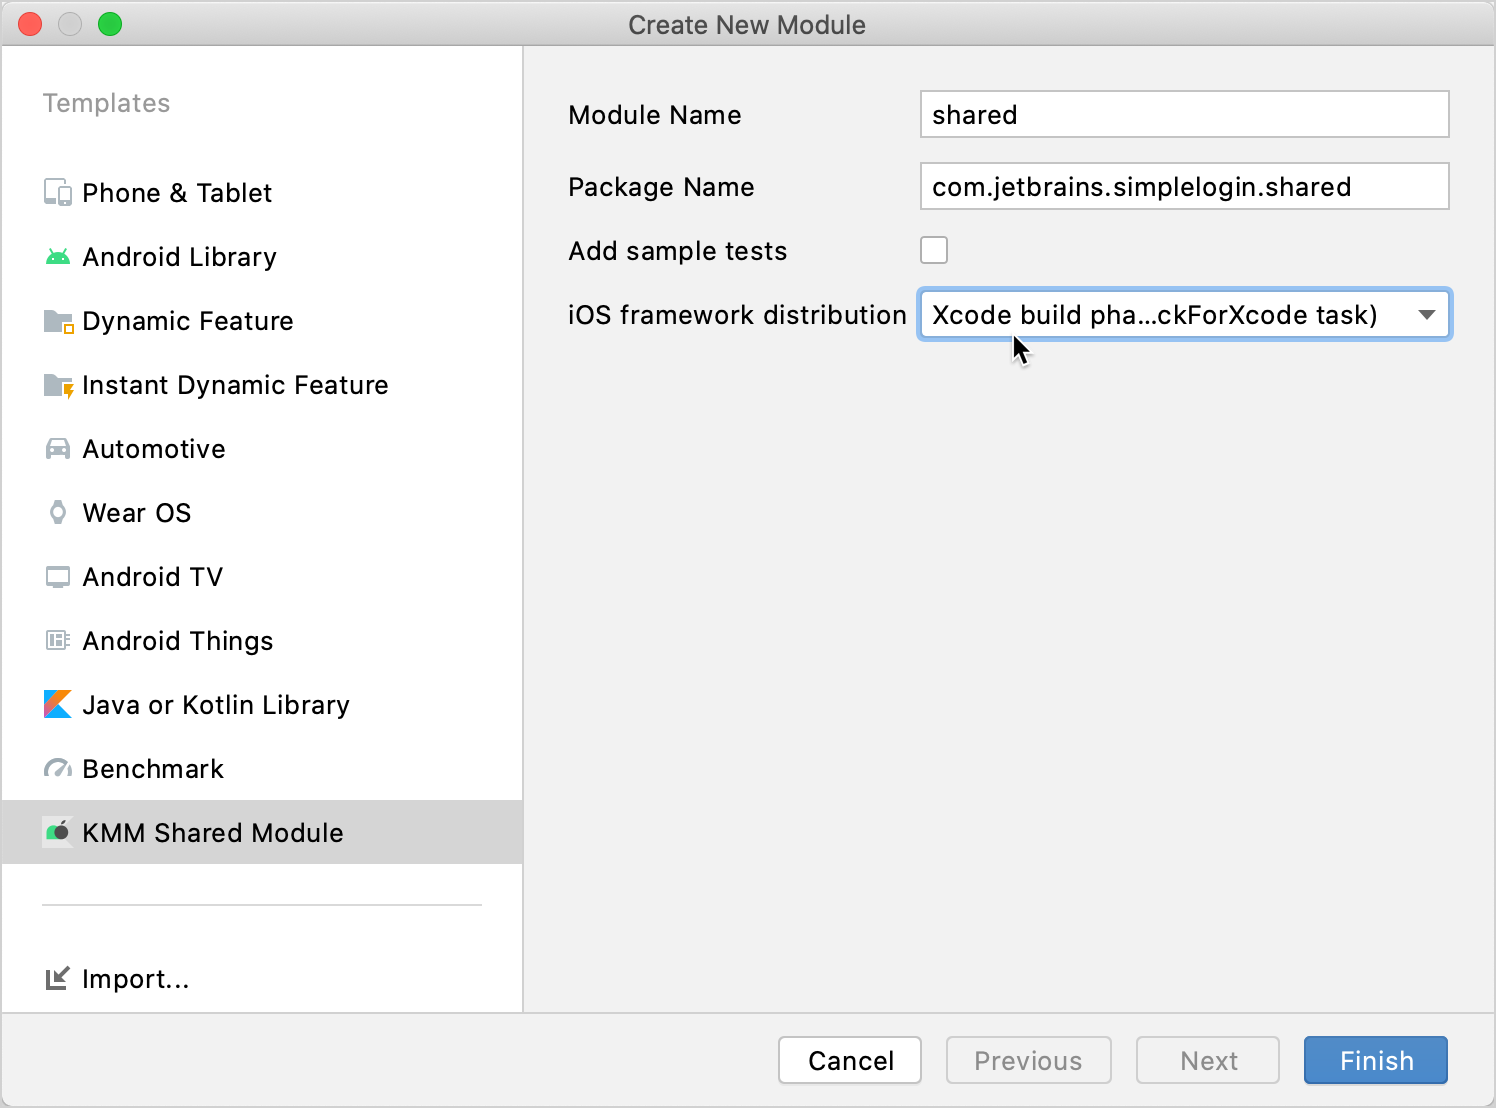
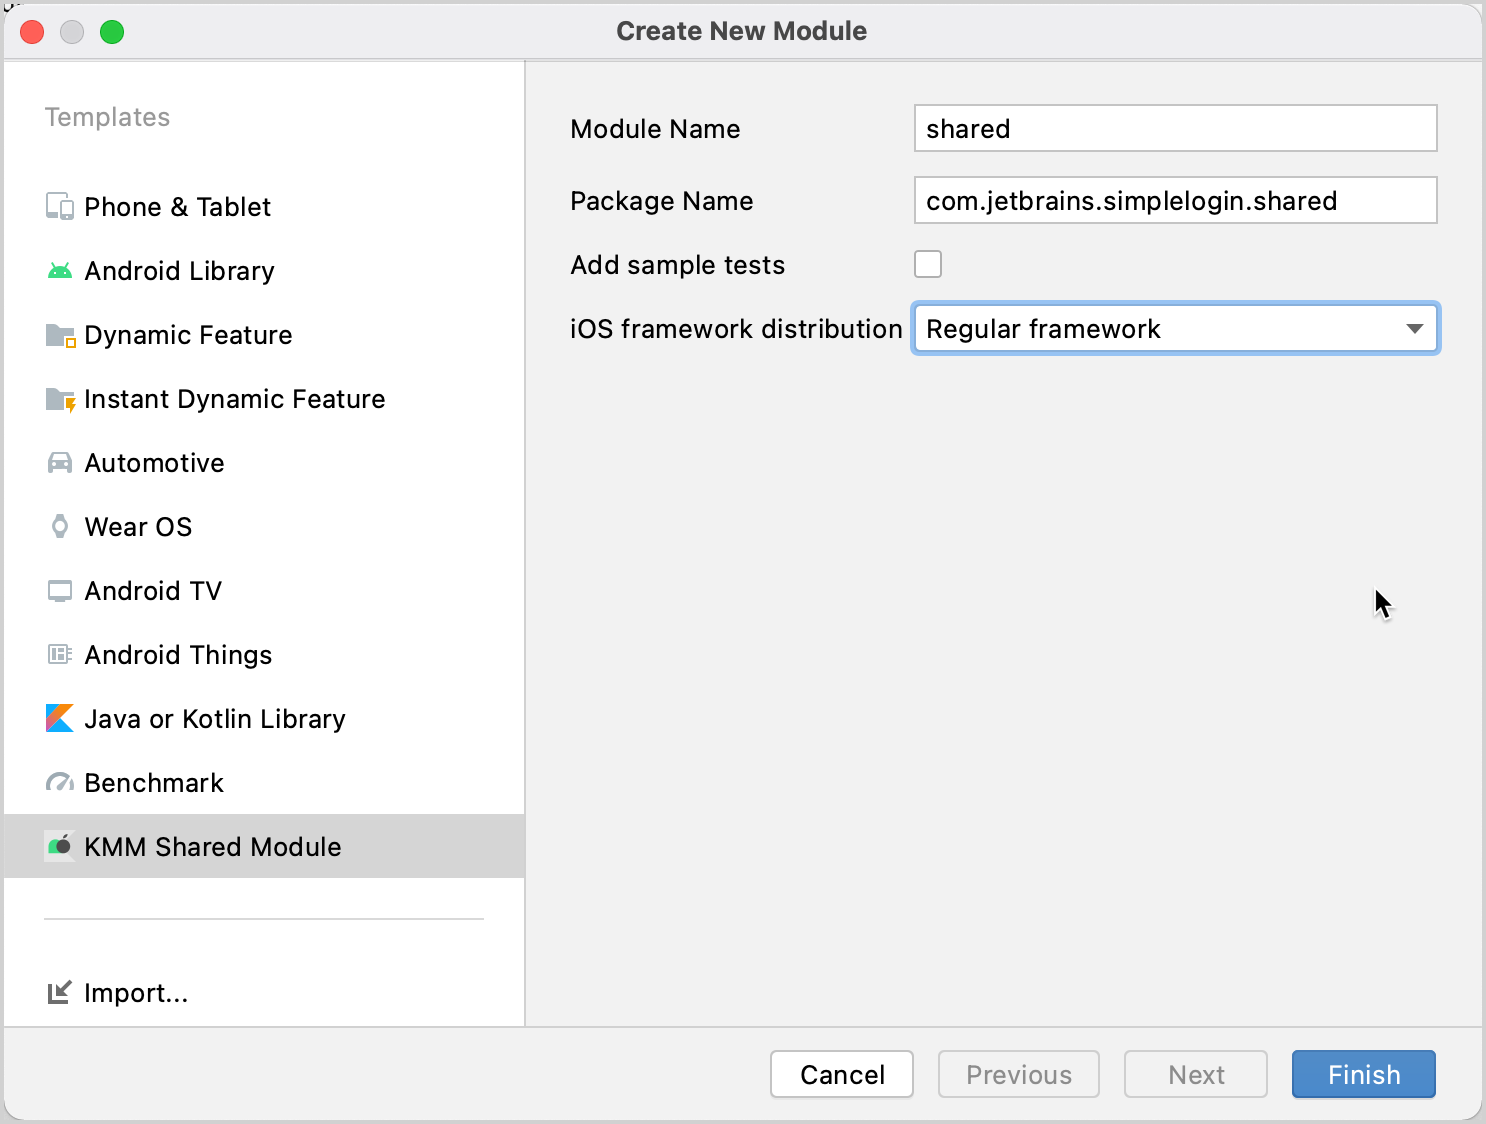
update: update the KMM project structure and tutorial (#104)
* update: update the discover-kmm-project.md and v.list

* update: update the discover-kmm-project.md and v.list

* update: update screenshots and integration instructions

* fix: fix the minitoc

* update: update after review

* update: update the discover-kmm-project.md

* update: update pics

* update: update the structure

* update: update the pic

* update: update the wording

diff --git a/topics/discover-kmm-project.md b/topics/discover-kmm-project.md
@@ -4,16 +4,16 @@
 The purpose of the Kotlin Multiplatform Mobile (_KMM_) technology is unifying the development of applications with common 
 logic for Android and iOS platforms. To make this possible, KMM uses a mobile-specific structure of
 [Kotlin Multiplatform](https://kotlinlang.org/docs/multiplatform.html) projects.
-On this page, we’ll describe the structure of a basic KMM project. Note that this structure isn’t the only
+This page describes the structure of a basic KMM project. Note that this structure isn’t the only
 possible way to organize a KMM project; however, we recommend it as a starting point.
 
 A basic Kotlin Mobile Multiplatform (KMM) project consists of three components:
 
-* _Shared module_ - a Kotlin module that contains common logic for both Android and iOS applications.
+* _Shared module_ – a Kotlin module that contains common logic for both Android and iOS applications.
 Builds into an Android library and an iOS framework. Uses Gradle as a build system.
-* _Android application_ - a Kotlin module that builds into the Android application.
+* _Android application_ – a Kotlin module that builds into the Android application.
 Uses Gradle as a build system.
-* _iOS application_ - an Xcode project that builds into the iOS application.
+* _iOS application_ – an Xcode project that builds into the iOS application.
 
 ![Basic KMM project structure](basic-project-structure.png){width=700}
 
@@ -50,14 +50,14 @@ include(":androidApp")
 
 The iOS application is produced from an Xcode project. It’s stored in a separate directory within the root project.
 Xcode uses its own build system; thus, the iOS application project isn’t connected with other parts of the KMM project
-via Gradle. Instead, it uses the shared module as an external artifact - framework. For details on integration between
+via Gradle. Instead, it uses the shared module as an external artifact – framework. For details on integration between
 the shared module and the iOS application, see [iOS application](#ios-application).
 
 This is a basic structure of a KMM project:
 
 ![Basic KMM project directories](basic-project-dirs.png){width=400}
 
-The root project doesn’t hold source code. You can use it to store global configuration in its `build.gradle(.kts)` or 
+The root project does not hold source code. You can use it to store global configuration in its `build.gradle(.kts)` or 
 `gradle.properties`, for example, add repositories or define global configuration variables.
 
 For more complex projects, you can add more modules into the root project by creating them in the IDE and linking via
@@ -258,7 +258,7 @@ plugins {
 </tab>
 </tabs>
 
-The configuration of Android library is stored in the `android {}` top-level block of the shared module’s build script.
+The configuration of Android library is stored in the `android {}` top-level block of the shared module’s build script:
 
 <tabs>
 <tab title="Groovy">
@@ -308,7 +308,7 @@ To learn more, see the [Android developer documentation](https://developer.andro
 
 ### iOS framework
 
-For using in iOS applications, the shared module compiles into a framework - a kind of hierarchical directory
+For using in iOS applications, the shared module compiles into a framework – a kind of hierarchical directory
 with shared resources used on the Apple platforms.
 This framework connects to the Xcode project that builds into an iOS application.
 
@@ -354,68 +354,12 @@ kotlin {
 </tab>
 </tabs>
 
-Additionally, there is a Gradle task that exposes the framework to the Xcode project from which the iOS application is built.
+Additionally, there is a Gradle task `embedAndSignAppleFrameworkForXcode` that exposes the framework to the Xcode project from which the iOS application is built.
 It uses the configuration of the iOS application project to define the build mode (`debug` or `release`) and provide
 the appropriate framework version to the specified location.
 
-<tabs>
-<tab title="Groovy">
-    
-```Groovy
-task(packForXcode, type: Sync) {
-    group = 'build'
-    def mode = System.getenv('CONFIGURATION') ?: 'DEBUG'
-    def sdkName = System.getenv('SDK_NAME') ?: 'iphonesimulator'
-    def targetName = 'ios' + ((sdkName.startsWith('iphoneos')) ? 'Arm64' : 'X64')
-    def framework = kotlin.targets.getByName(targetName).binaries.getFramework(mode)
-    inputs.property('mode', mode)
-    dependsOn(framework.linkTask)
-    def targetDir = new File(buildDir, 'xcode-frameworks')
-    from({ framework.outputDirectory })
-    into(targetDir)
-}
-```
-        
-</tab>
-<tab title="Kotlin">
-    
-```Kotlin
-val packForXcode by tasks.creating(Sync::class) {
-    group = "build"
-    val mode = System.getenv("CONFIGURATION") ?: "DEBUG"
-    val sdkName = System.getenv("SDK_NAME") ?: "iphonesimulator"
-    val targetName = "ios" + if (sdkName.startsWith("iphoneos")) "Arm64" else "X64"
-    val framework = kotlin.targets.getByName<KotlinNativeTarget>(targetName).binaries.getFramework(mode)
-    inputs.property("mode", mode)
-    dependsOn(framework.linkTask)
-    val targetDir = File(buildDir, "xcode-frameworks")
-    from({ framework.outputDirectory })
-    into(targetDir)
-}
- ```
-         
-</tab>
-</tabs>
-
-The task executes upon each build of the Xcode project to provide the latest version of the framework for the iOS application.
+The task is built-in in the multiplatform plugin. It executes upon each build of the Xcode project to provide the latest version of the framework for the iOS application.
 For details, see [iOS application](#ios-application).
-
-<tabs>
-<tab title="Groovy">
-    
-```Groovy
-tasks.getByName('build').dependsOn(packForXcode)
-```
-        
-</tab>
-<tab title="Kotlin">
-    
-```Kotlin
-tasks.getByName("build").dependsOn(packForXcode)
- ```
-         
-</tab>
-</tabs>
 
 ## Android application
 
@@ -558,26 +502,23 @@ To learn more, see the [Android developer documentation](https://developer.andro
 ## iOS application
 
 The iOS application is produced from an Xcode project generated automatically by the Project Wizard.
-It resides in a separate directory within the root KMM project. This is a basic Xcode project configured to use the
-framework produced from the shared module.
+It resides in a separate directory within the root KMM project. 
 
-![Basic KMM Xcode project](basic-xcode-project.png){width=300}
+![Basic KMM Xcode project](basic-xcode-project.png){width=400}
 
-To make the declarations from the shared module available in the source code of the iOS application,
-the framework is added to the project on the **General** tab of the project settings.
+For each build of the iOS application, the project obtains the latest version of the framework. To do this, it uses a **Run Script** build phase that executes the `embedAndSignAppleFrameworkForXcode` Gradle task from the shared module. This task generates the `.framework` with the needed configuration, depending on the Xcode environment settings, and puts the artifact into the `DerivedData` Xcode directory.
 
-![Framework in the Xcode project settings](framework-in-project-settings.png){width=700}
+![Execution of `embedAndSignAppleFrameworkForXcode` in the Xcode project settings](packforxcode-in-project-settings.png){width=700}
 
-For each build of the iOS application, the project obtains the latest version of the framework.
-To do this, it uses a **Run Script** build phase that executes the [packForXcode](#ios-framework)
-Gradle task from the shared module.
+To embed framework into the application and make the declarations from the shared module available in the source code of the iOS application, the following build settings should be configured properly:
 
-![Execution of packForXcode in the Xcode project settings](packforxcode-in-project-settings.png){width=700}
+1. **Other Linker flags** under the **Linking** section: `$(inherited) -framework shared`
 
-Finally, another build phase **Embed Framework** takes the framework from the specified location and
-embeds it into the application build. This makes the shared code available in the iOS application.
+   ![Configuring **Other linker flags** in the Xcode project settings](other-linker-flags-in-xcode-project-settings.png){width=700}
 
-![Embedding the framework in the Xcode project settings](embed-framework-in-xcode-project-settings.png){width=700}
+2. **Framework Search Paths** under the **Search Paths** section: `$(SRCROOT)/../shared/build/xcode-frameworks/$(CONFIGURATION)/$(SDK_NAME)`.
+
+   ![Configuring **Framework Search Paths** in the Xcode project settings](framework-search-path-in-xcode-project-settings.png){width=700}
 
 In other aspects, the Xcode part of a KMM project is a typical iOS application project.
 To learn more about creating iOS application, see the [Xcode documentation](https://developer.apple.com/documentation/xcode#topics).

diff --git a/topics/integrate-in-existing-app.md b/topics/integrate-in-existing-app.md
@@ -62,7 +62,7 @@ In your Android project, create a KMM shared module for your cross-platform code
 1. In Android Studio, click **File** | **New** | **New Module**.
 
 2. In the list of templates, select **KMM Shared Module**, enter the module name `shared`, and select the 
-   **Xcode build phases (packForXcode task)** in the list of iOS framework distribution options.  
+   **Regular framework** in the list of iOS framework distribution options.  
    This is required for connecting the shared module to the iOS application.
 
    ![KMM shared module](kmm-module-wizard.png)
@@ -224,14 +224,9 @@ Once you've made your Android application cross-platform, you can create an iOS 
 
 1. [Create an iOS project in Xcode](#create-an-ios-project-in-xcode).
 
-2. [Compile the shared module into a framework for the iOS project](#compile-the-shared-module-into-a-framework-for-the-ios-project).
+2. [Connect the framework to your iOS project](#connect-the-framework-to-your-ios-project).
 
-3. [Connect the framework to your iOS project](#connect-the-framework-to-your-ios-project).
-
-4. [Automate iOS project updates](#automate-ios-project-updates).
-
-5. [Connect the shared module to the iOS project](#connect-the-shared-module-to-the-ios-project).
-
+3. [Use the shared module from Swift](#use-the-shared-module-from-swift).
 
 ### Create an iOS project in Xcode
 
@@ -255,22 +250,6 @@ You can rename the `simpleLoginIOS` directory to `iosApp` for consistency with o
 
 ![Renamed iOS project directory in Android Studio](ios-directory-renamed-in-as.png){width=194}
 
-### Compile the shared module into a framework for the iOS project
-
-To use Kotlin code in your iOS project, compile shared code into a `.framework`.
-
-* In Android Studio, run the `packForXcode` Gradle task in the Terminal:
-
-    ```text
-     ./gradlew packForXcode
-    ```
-
-    > You can also run the `packForXcode` Gradle task by double-clicking it in the list of Gradle tasks.
-    >
-    {type="note"}
-
-The generated framework is stored in the `shared/build/xcode-frameworks/` directory.
-
 ### Connect the framework to your iOS project
 
 Once you have the framework, you can connect it to your iOS project manually.
@@ -279,44 +258,38 @@ Once you have the framework, you can connect it to your iOS project manually.
 >
 {type="note"}
 
-Connect your framework to the iOS project manually.
+Connect your framework to the iOS project manually:
 
 1. In Xcode, open the iOS project settings by double-clicking the project name.
 
-2. Click the **+** under **Frameworks, Libraries, and Embedded Content**.
-
-   ![Add the generated framework](xcode-add-framework-1.png)
-
-3. Click **Add Other**, then click **Add Files**, and select the generated framework in `shared/build/xcode-frameworks/shared.framework`.
-
-   ![Framework is added](xcode-add-framework-2.png)
-
-4. Specify the **Framework Search Path** under **Search Paths** on the **Build Settings** tab – `$(SRCROOT)/../shared/build/xcode-frameworks`.
-
-   ![Framework search path](xcode-framework-search-path.png)
-
-### Automate iOS project updates
-
-To avoid recompiling your framework manually after every change in the KMM module, configure automatic updates of the iOS project.
-
-1. On the **Build Phases** tab of the project settings, click the **+** and add **New Run Script Phase**.
+2. On the **Build Phases** tab of the project settings, click the **+** and add **New Run Script Phase**.
 
    ![Add run script phase](xcode-run-script-phase-1.png)
 
-2. Add the following script:
+3. Add the following script:
 
     ```text
     cd "$SRCROOT/.."
-    ./gradlew :shared:packForXCode -PXCODE_CONFIGURATION=${CONFIGURATION}
+    ./gradlew :shared:embedAndSignAppleFrameworkForXcode
     ```
 
-   ![Add the script](xcode-run-script-phase-2.png)
+   ![Add the script](xcode-add-run-phase-2.png)
 
 3. Move the **Run Script** phase before the **Compile Sources** phase.
 
    ![Move the Run Script phase](xcode-run-script-phase-3.png)
 
-### Connect the shared module to the iOS project
+4. On the **Build Settings** tab, specify the **Framework Search Path** under **Search Paths** – `$(SRCROOT)/../shared/build/xcode-frameworks/$(CONFIGURATION)/$(SDK_NAME)`.
+
+   ![Framework search path](xcode-add-framework-search-path.png)
+
+5. On the **Build Settings** tab, specify the **Other Linker flags** under **Linking** – `$(inherited) -framework shared`
+
+   ![Linker flag](xcode-add-flag.png)
+
+6. Build the project in Xcode. If everything is set up correctly, the project will successfully build.
+
+### Use the shared module from Swift
 
 1. In Xcode, open the `ContentView.swift` file and import the `shared` module.
 
